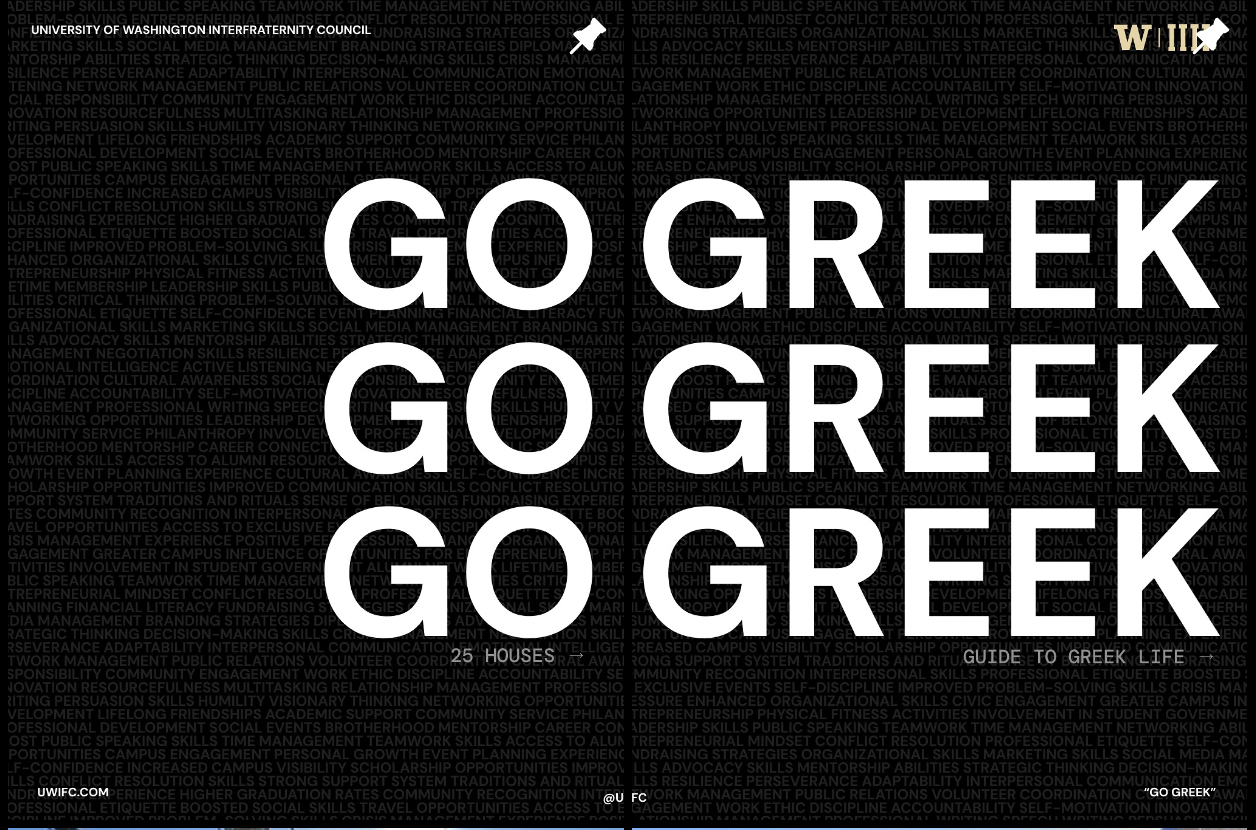
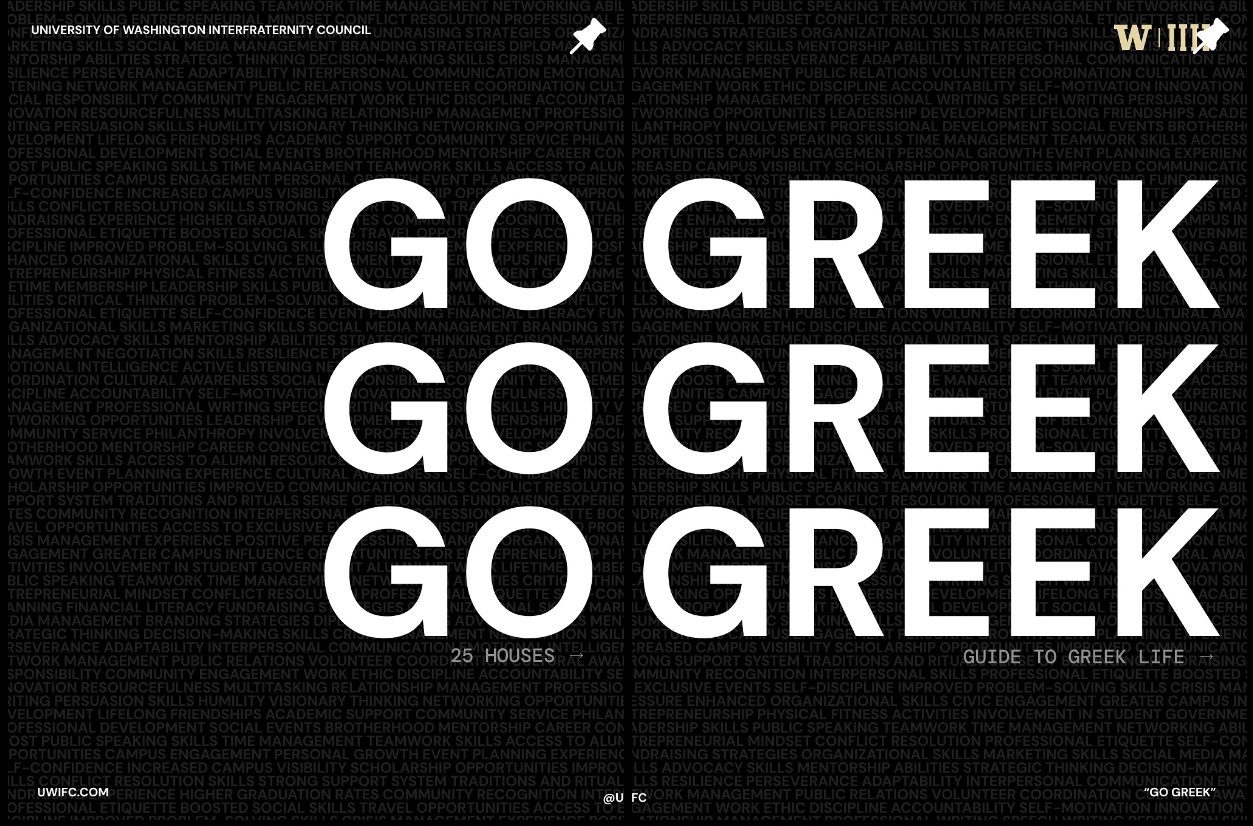
wtf is taking up port 3000

Changed region(s): [[0.0, 0.0, 0.996, 1.0], [0.0623, 0.0303, 0.3113, 0.0605]]

diff --git a/app/components/CreativeWork.tsx b/app/components/CreativeWork.tsx
@@ -29,9 +29,9 @@ const creativeProjects: CreativeProject[] = [
       "/creative/ifc/fpr1.png",
       "/creative/ifc/gogreek.png",
       "/creative/ifc/sticker.png",
-      //"/creative/ifc/exec.png",
-      "/creative/ifc/insta.png",
-      "/creative/ifc/gogreek.png"
+      "/creative/ifc/exec2.png",
+      "/creative/ifc/figma.png",
+      "/creative/ifc/insta.png"
     ],
     logo: "/creative/logos/ifc.png",
     instagram: "https://instagram.com/uwifc",
@@ -44,9 +44,11 @@ const creativeProjects: CreativeProject[] = [
       "Designed and developed modern rebrand. Grew social media following by 150%. Directed promotional video and drove membership.",
     images: [
       "/creative/htkd/htkd1.png",
-      "/placeholder.svg?height=600&width=800&text=Sensor+Setup",
-      "/placeholder.svg?height=600&width=800&text=Visual+Feedback",
-      "/placeholder.svg?height=600&width=800&text=User+Interaction",
+      "/creative/htkd/insta3.png",
+      "/creative/htkd/color.png",
+      "/creative/htkd/htkd2.png",
+      "/creative/htkd/type.png",
+      "/creative/htkd/insta2.png",
     ],
     logo: "/creative/logos/htkd1.png",
     instagram: "https://instagram.com/uwhuskytkd",
@@ -55,7 +57,7 @@ const creativeProjects: CreativeProject[] = [
     title: "NUTRIDASH",
     subtitle: "",
     description:
-      "Magazine layout and typography for quarterly publication, featuring innovative grid systems and experimental typography. Each issue explores the intersection of design, technology, and culture through thoughtful visual storytelling.",
+      "Mobile delivery app design for older adults and their caretakers to manage and order groceries.",
     images: [
       "/placeholder.svg?height=600&width=800&text=Cover+Design",
       "/placeholder.svg?height=600&width=800&text=Grid+System",
@@ -91,7 +93,7 @@ export default function CreativeWork({ creativeWorkRef }: CreativeWorkProps) {
       </div>
 
       {creativeProjects.map((project, projectIndex) => (
-        <div key={projectIndex} className="relative min-h-[calc(100vh*4)]">
+        <div key={projectIndex} className="relative min-h-[calc(90vh*4)]">
           {/* Project Container */}
           <div className={`flex w-full max-w-[2000px] mx-auto ${projectIndex % 2 === 0 ? "" : "flex-row-reverse"}`}>
             {/* Sticky Description */}
